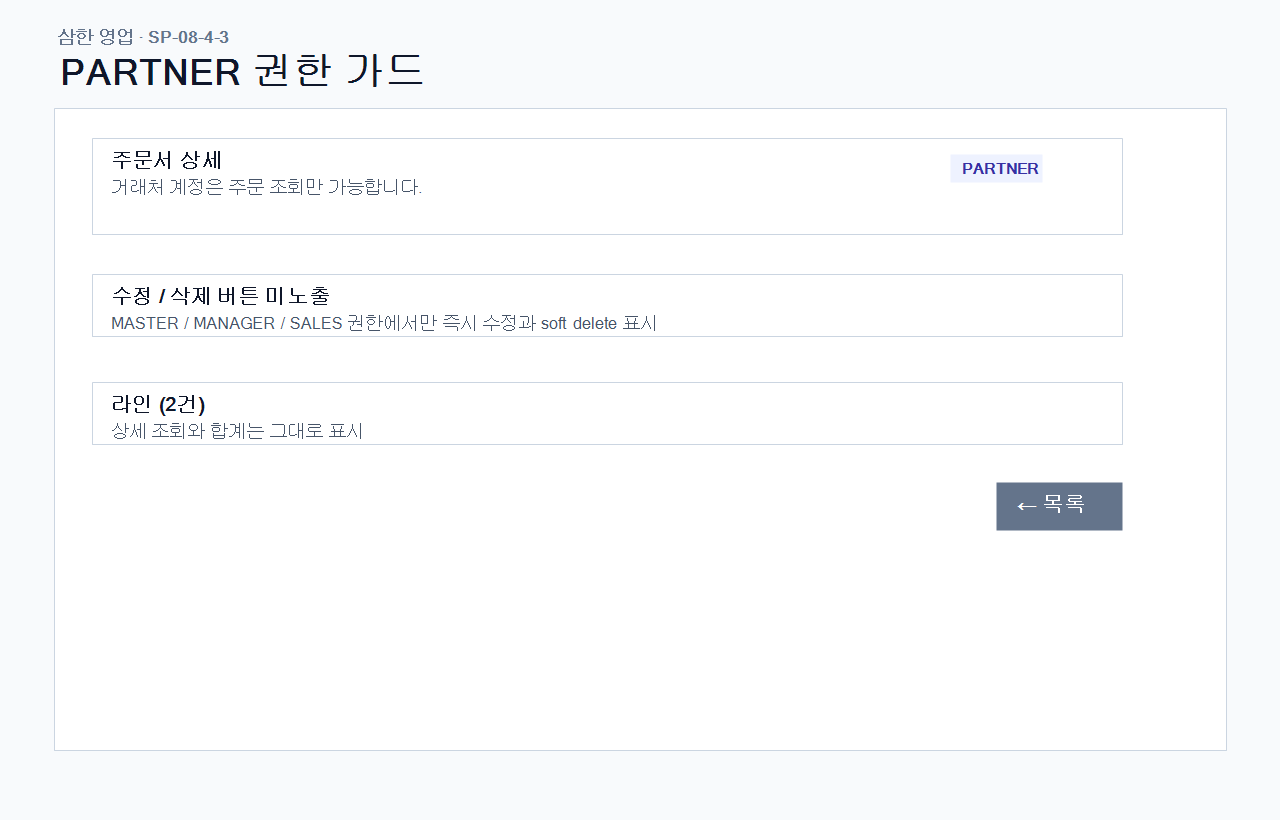
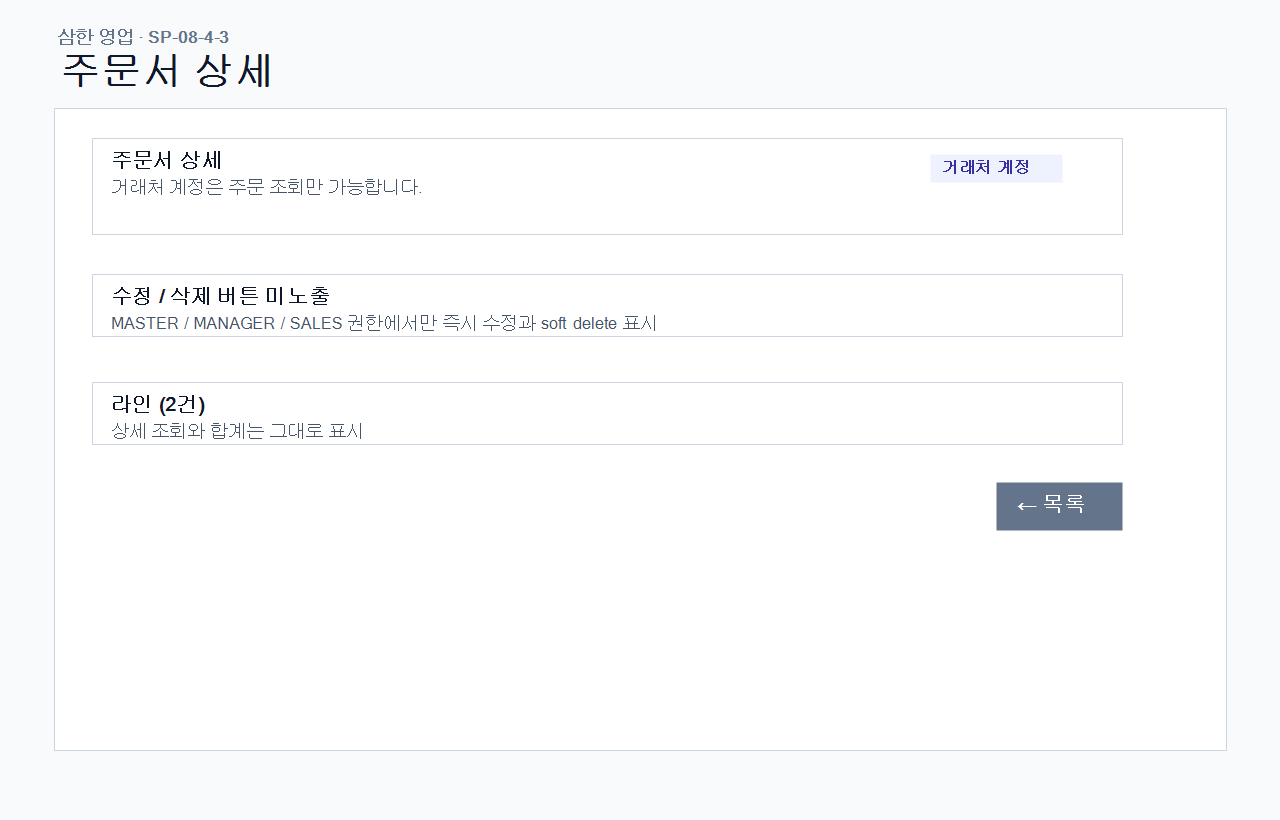
fix(sp-08-4-3): 사이클 3.5 cleanup — 머지 직전 mini-fix 4건
사용자 정책 N=3 종료 조건 충족 (양쪽 0 P0/P1, CI 24/24 SUCCESS).
사이클 3.5 옵션 B 선택 (사용자 명시) — cleanup commit 후 머지.

BE P3-1 (양쪽 valid Low):
- HeaderAuthenticationFilter USER_ID_HEADER 지역 리터럴 → HttpHeaderConstants.CALLER_ID_HEADER 통일

Designer P2/P3 (양쪽 valid):
- PNG 03 "201 Created" HTTP 코드 배지 → "주문서 생성 완료" 한국어 successBanner (D3)
- PNG 05 페이지 제목 "PARTNER 권한 가드" → "주문서 상세", role 칩 "PARTNER" → "거래처 계정" (D4)
- PNG 02 "active 목록에서 제외되었습니다" → "주문서 목록에서 제외되었습니다" (D5)

Codex P3 (TM 신규):
- dev-report QA PNG 표 4 → 5 케이스 (05-role-guard-partner.png 추가)

검증:
- BE IT 11 회귀 없음 (Codex sandbox GRADLE_USER_HOME)
- Desktop typecheck PASS (FE diff 0)
- PNG 02/03/05 재생성 + 한국어 라벨 확인
- git diff --check exit 0

연관 PR: #218

Changed region(s): [[0.0312, 0.061, 0.3125, 0.122], [0.75, 0.1829, 0.8125, 0.2134]]

diff --git a/services/partner-order-service/src/main/java/com/samhanair/logis/partnerorder/config/HeaderAuthenticationFilter.java b/services/partner-order-service/src/main/java/com/samhanair/logis/partnerorder/config/HeaderAuthenticationFilter.java
@@ -22,13 +22,12 @@ import org.springframework.web.filter.OncePerRequestFilter;
  */
 public class HeaderAuthenticationFilter extends OncePerRequestFilter {
 
-    private static final String USER_ID_HEADER = "X-User-Id";
     private static final String USER_ROLE_HEADER = HttpHeaderConstants.CALLER_ROLE_HEADER;
 
     @Override
     protected void doFilterInternal(HttpServletRequest request, HttpServletResponse response, FilterChain chain)
             throws ServletException, IOException {
-        String userId = request.getHeader(USER_ID_HEADER);
+        String userId = request.getHeader(HttpHeaderConstants.CALLER_ID_HEADER);
         String role = request.getHeader(USER_ROLE_HEADER);
 
         if (userId != null && !userId.isBlank() && role != null && !role.isBlank()

diff --git a/docs/dev-reports/sp-08-4-3-order-delete-and-estimate-convert.md b/docs/dev-reports/sp-08-4-3-order-delete-and-estimate-convert.md
@@ -41,7 +41,7 @@
 | IT D1 | success 204, soft-deleted 404, PARTNER 403, CONFIRMED 422, CANCELED 422, DELETE audit |
 | IT C1 | success 201, not found 404, already converted 409, PARTNER 403, FROM_ESTIMATE audit |
 | Playwright | endpoint contract 2건, ErrorCode 3건, desktop 삭제 dialog, DELETE audit mock |
-| QA PNG | delete confirm, delete success, from-estimate success, already converted |
+| QA PNG | delete confirm, delete success, from-estimate success, already converted, PARTNER role guard |
 
 추가 IT 메서드:
 - `testDeleteCanceledOrderReturns422` (D6): 취소 주문 삭제 422 + active 유지 검증
